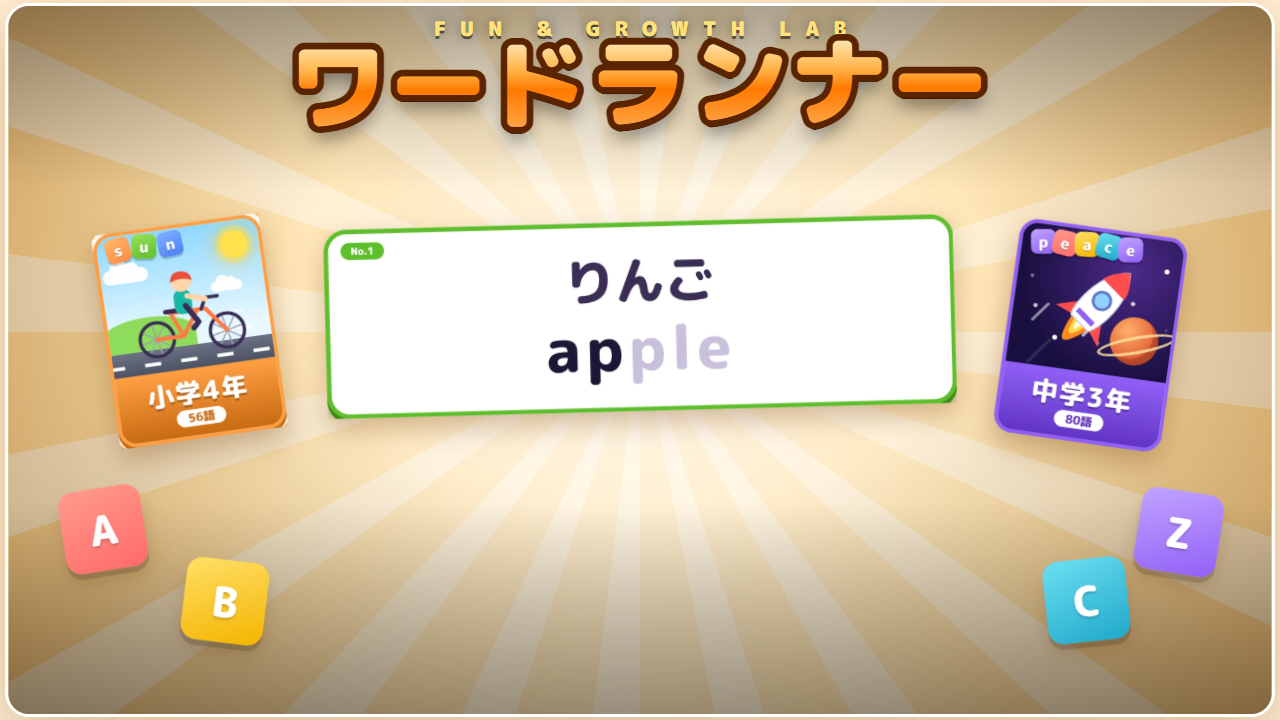
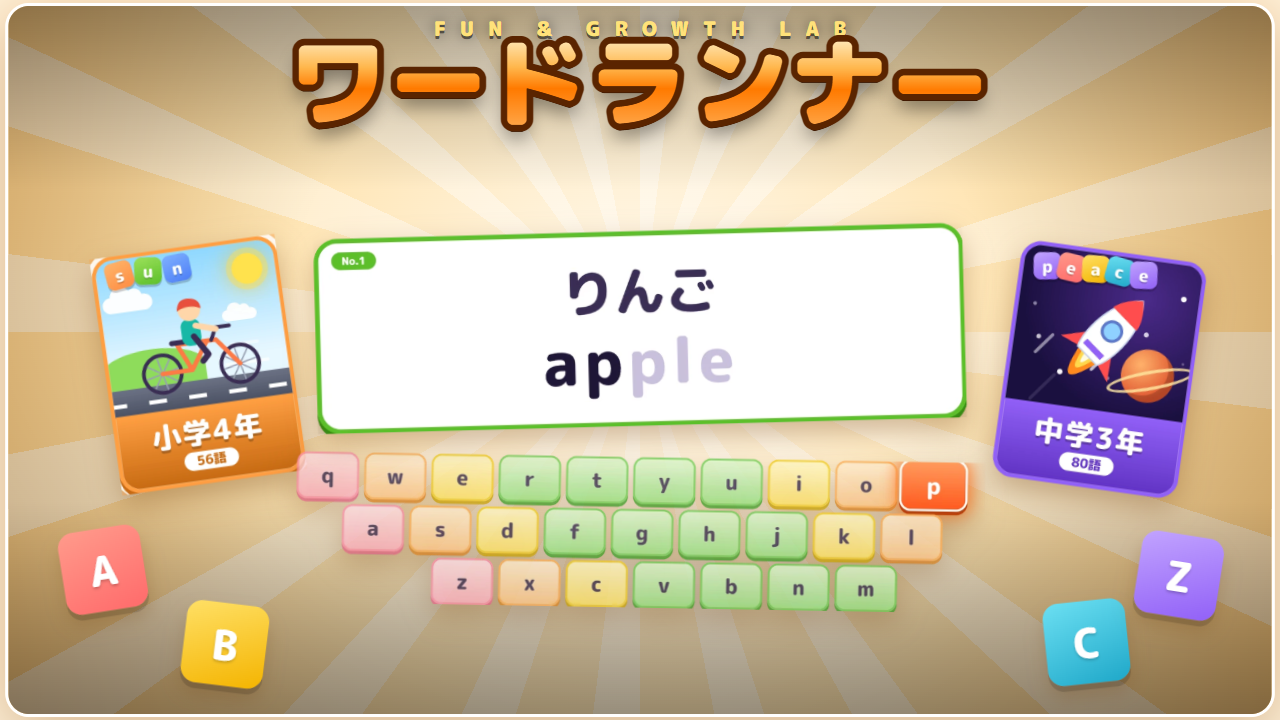
ワードランナー: INDEXのサムネを、キーボードを足して中央が寂しくない構図に差し替え

diff --git a/index.html b/index.html
@@ -1759,7 +1759,7 @@
                 <span class="mini-tag" data-i18n="tag_gr3">3年生〜</span>
             </div>
             <a href="EnglishDash/index.html" class="media-container">
-                <img src="images/EnglishDash.png?v=20261018" alt="ワードランナー">
+                <img src="images/EnglishDash.png?v=20261019" alt="ワードランナー">
             </a>
             <div class="start-btn-area">
                 <a href="EnglishDash/index.html" class="play-btn">ゲームスタート ▶</a>
